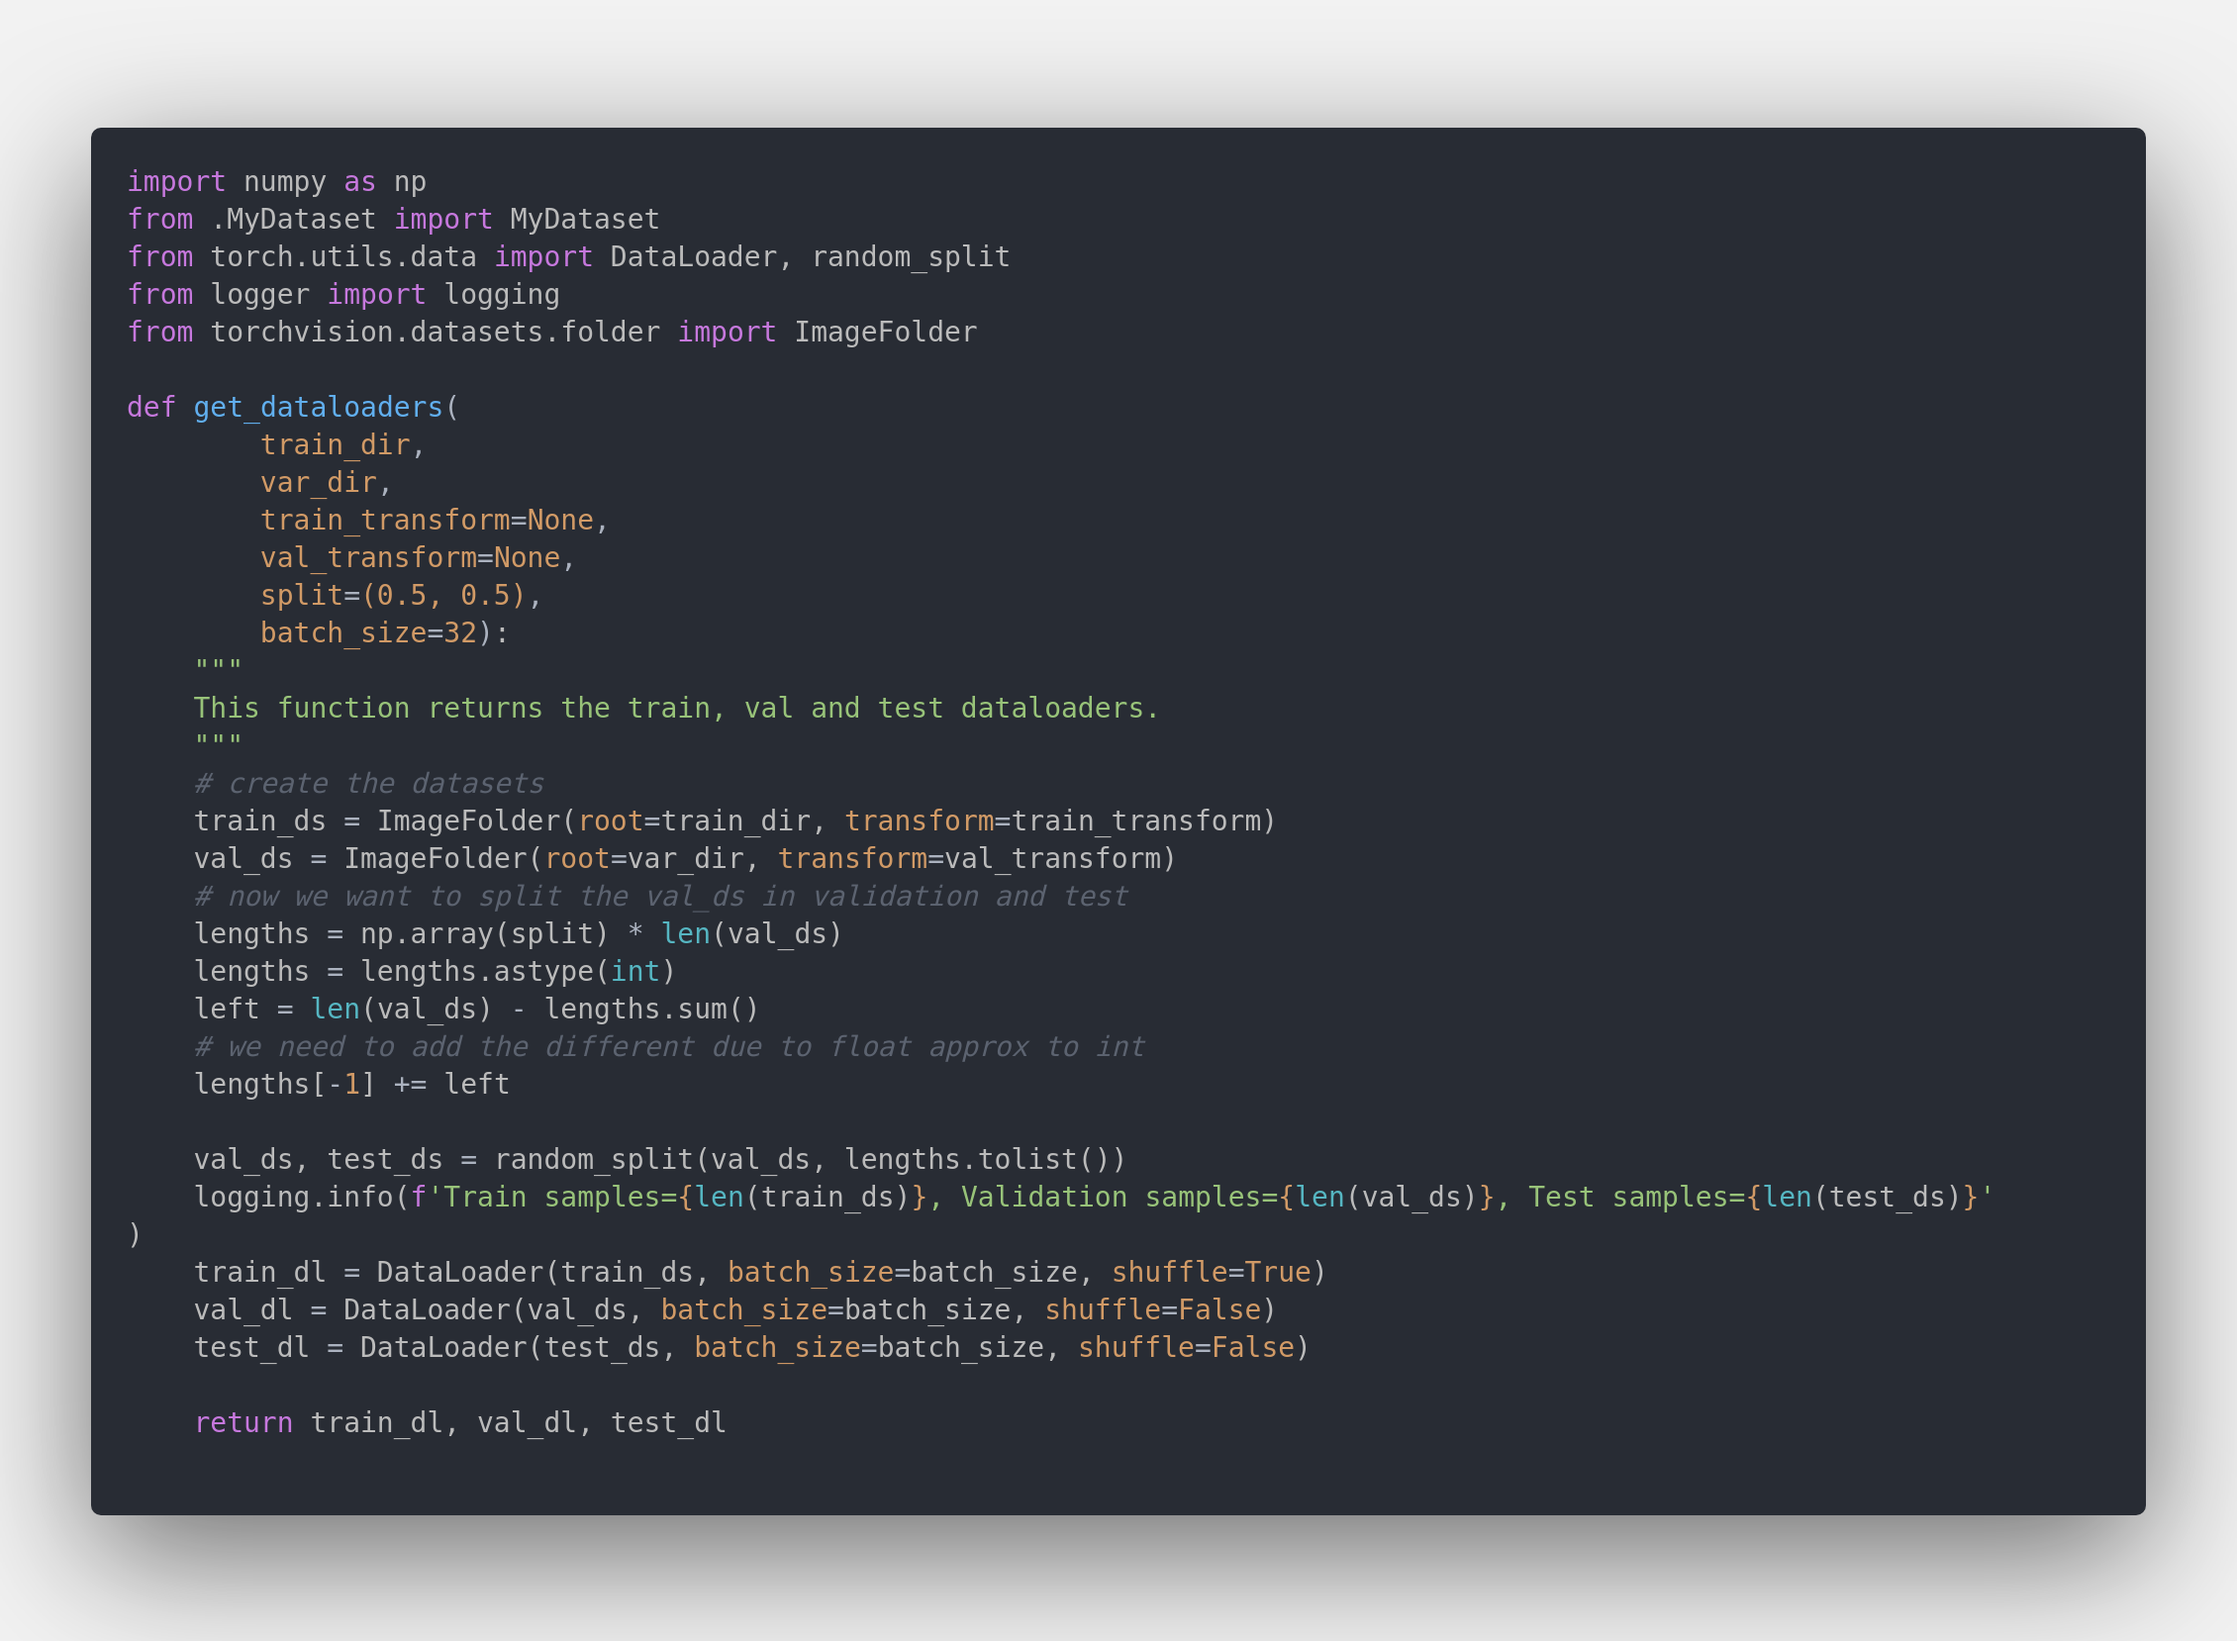
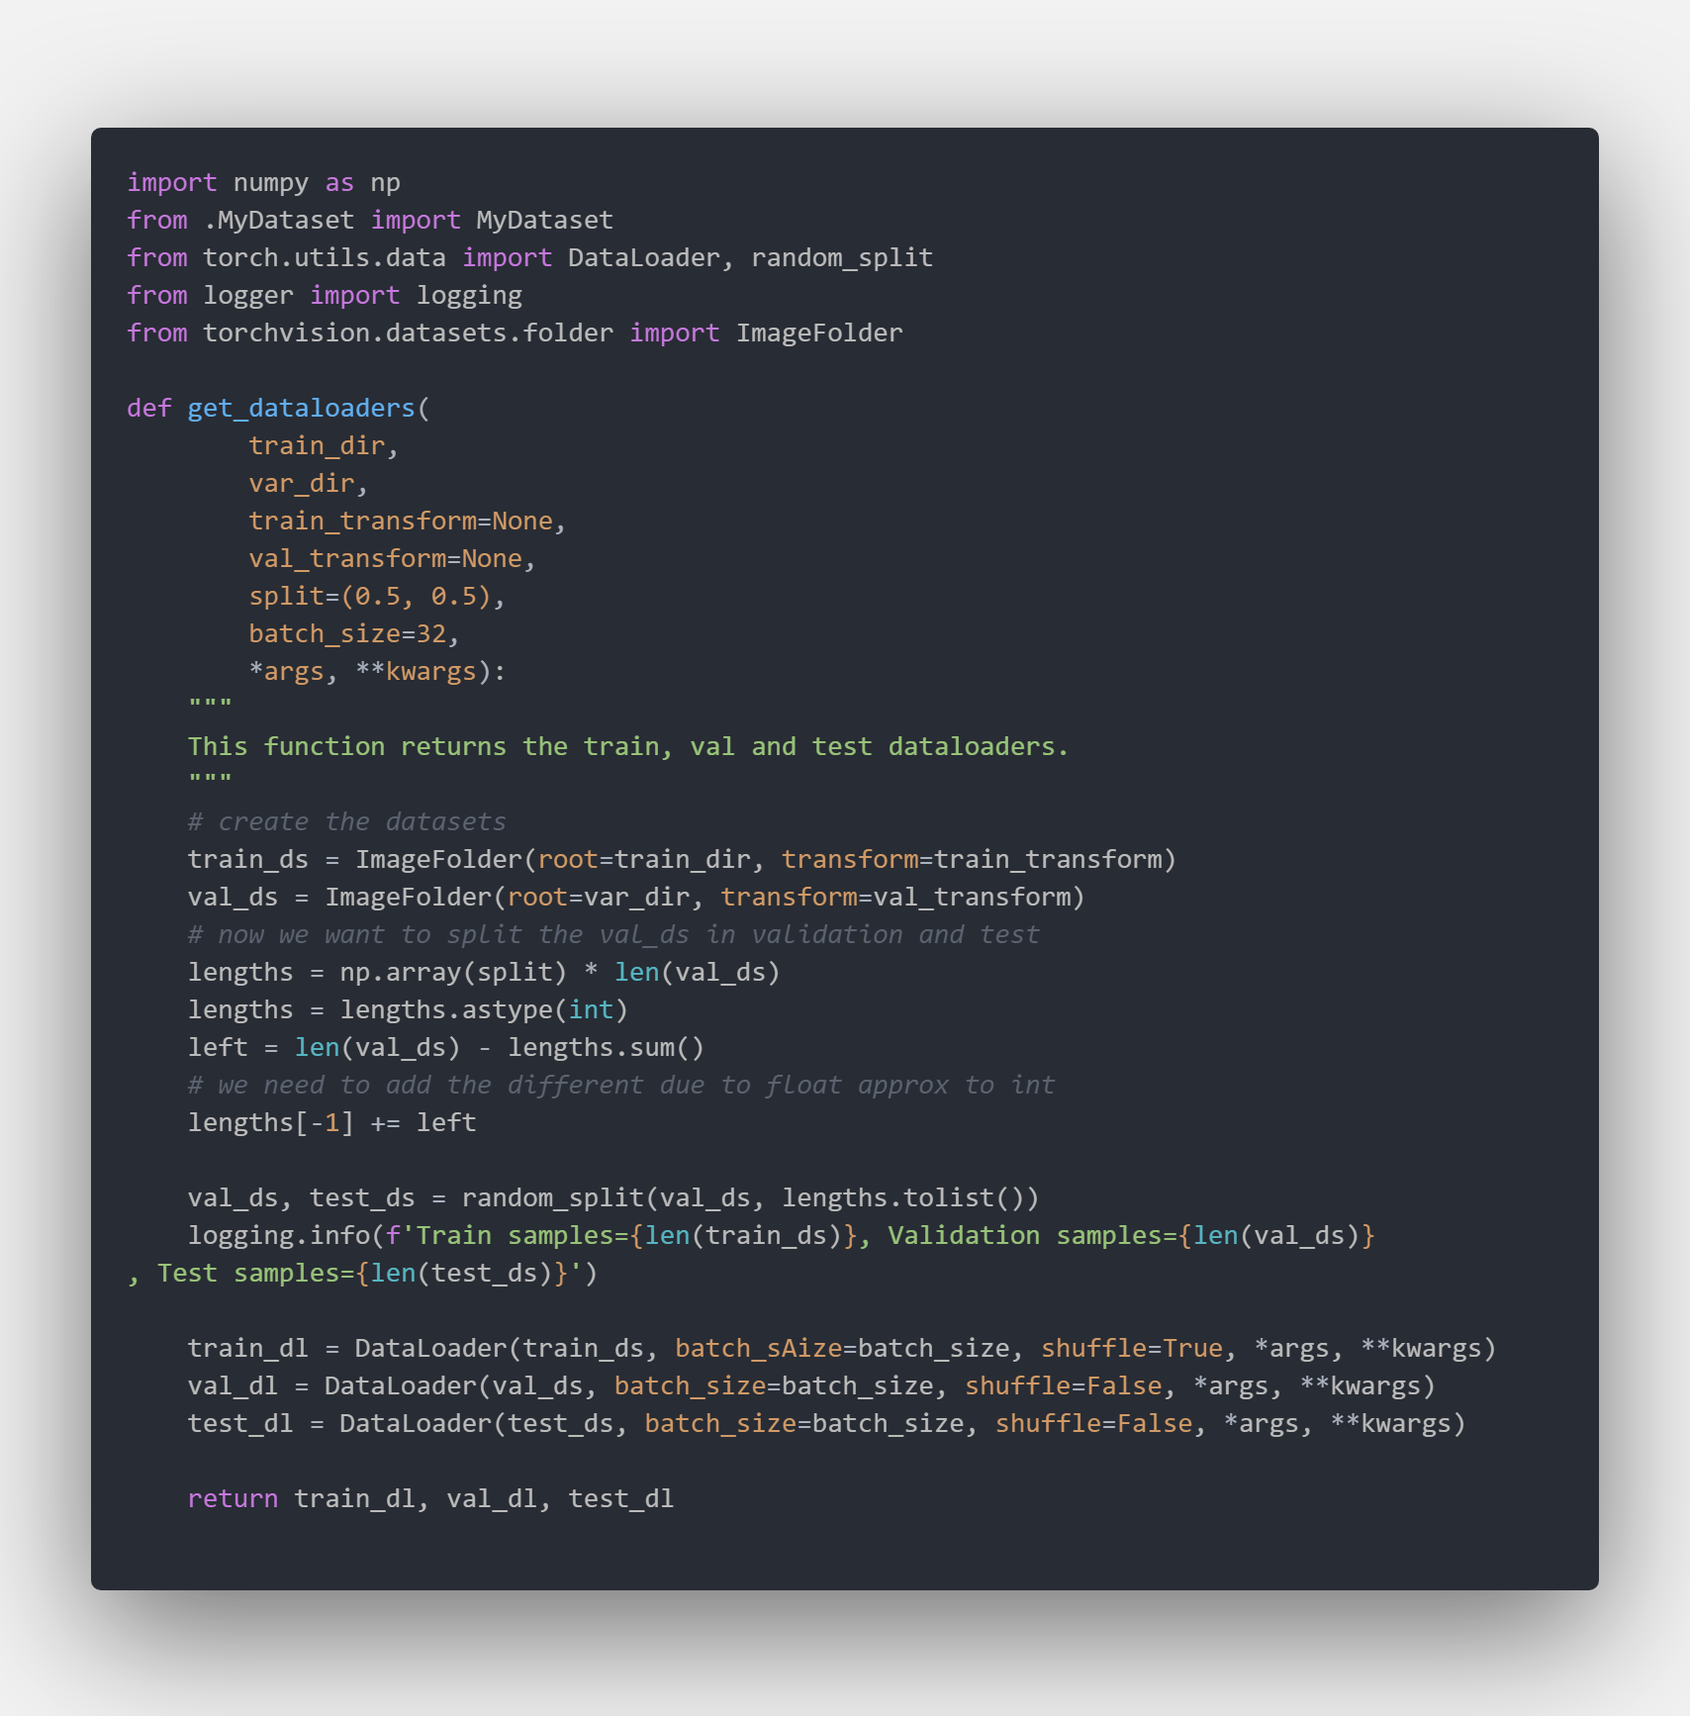
updated doc

diff --git a/main.py b/main.py
@@ -1,6 +1,6 @@
 import time
-import torch.optim as optim
 from comet_ml import Experiment
+import torch.optim as optim
 from torchsummary import summary
 from Project import Project
 from data import get_dataloaders
@@ -12,51 +12,57 @@ from poutyne.framework.callbacks import ReduceLROnPlateau, ModelCheckpoint, Earl
 from callbacks import CometCallback
 from logger import logging
 
-project = Project()
-# our hyperparameters
-params = {
-    'lr': 0.001,
-    'batch_size': 32,
-    'model': 'resnet18-finetune'
-}
-logging.info(f'Using device={device} 🚀')
-# everything starts with the data
-train_dl, val_dl, test_dl = get_dataloaders(
-    project.data_dir / "train",
-    project.data_dir / "val",
-    val_transform=val_transform,
-    train_transform=train_transform,
-    batch_size=params['batch_size'],
-)
-# is always good practice to visualise some of the train and val images to be sure data-aug
-# is applied properly
-show_dl(train_dl)
-show_dl(test_dl)
-# define our comet experiment
-experiment = Experiment(api_key="YOU_KEY",
-                        project_name="dl-pytorch-template", workspace="francescosaveriozuppichini")
-experiment.log_parameters(params)
-# create our special resnet18
-cnn = resnet18(2).to(device)
-# print the model summary to show useful information
-logging.info(summary(cnn, (3, 224, 244)))
-# define custom optimizer and instantiace the trainer `Model`
-optimizer = optim.Adam(cnn.parameters(), lr=params['lr'])
-model = Model(cnn, optimizer, "cross_entropy", batch_metrics=["accuracy"]).to(device)
-# usually you want to reduce the lr on plateau and store the best model
-callbacks = [
-    ReduceLROnPlateau(monitor="val_acc", patience=5, verbose=True),
-    ModelCheckpoint(str(project.checkpoint_dir / f"{time.time()}-model.pt"), save_best_only="True", verbose=True),
-    EarlyStopping(monitor="val_acc", patience=10, mode='max'),
-    CometCallback(experiment)
-]
-model.fit_generator(
-    train_dl,
-    val_dl,
-    epochs=50,
-    callbacks=callbacks,
-)
-# get the results on the test set
-loss, test_acc = model.evaluate_generator(test_dl)
-logging.info(f'test_acc=({test_acc})')
-experiment.log_metric('test_acc', test_acc)
+if __name__ == '__main__':
+    project = Project()
+    # our hyperparameters
+    params = {
+        'lr': 0.001,
+        'batch_size': 32,
+        'epochs': 10,
+        'model': 'resnet18-finetune'
+    }
+    logging.info(f'Using device={device} 🚀')
+    # everything starts with the data
+    train_dl, val_dl, test_dl = get_dataloaders(
+        project.data_dir / "train",
+        project.data_dir / "val",
+        val_transform=val_transform,
+        train_transform=train_transform,
+        batch_size=params['batch_size'],
+        pin_memory=True,
+        num_workers=4,
+    )
+    # is always good practice to visualise some of the train and val images to be sure data-aug
+    # is applied properly
+    show_dl(train_dl)
+    show_dl(test_dl)
+    # define our comet experiment
+    experiment = Experiment(api_key="YOU_KEY",
+                            project_name="dl-pytorch-template", workspace="francescosaveriozuppichini")
+    experiment.log_parameters(params)
+    # create our special resnet18
+    cnn = resnet18(2).to(device)
+    # print the model summary to show useful information
+    logging.info(summary(cnn, (3, 224, 244)))
+    # define custom optimizer and instantiace the trainer `Model`
+    optimizer = optim.Adam(cnn.parameters(), lr=params['lr'])
+    model = Model(cnn, optimizer, "cross_entropy",
+                  batch_metrics=["accuracy"]).to(device)
+    # usually you want to reduce the lr on plateau and store the best model
+    callbacks = [
+        ReduceLROnPlateau(monitor="val_acc", patience=5, verbose=True),
+        ModelCheckpoint(str(project.checkpoint_dir /
+                            f"{time.time()}-model.pt"), save_best_only="True", verbose=True),
+        EarlyStopping(monitor="val_acc", patience=10, mode='max'),
+        CometCallback(experiment)
+    ]
+    model.fit_generator(
+        train_dl,
+        val_dl,
+        epochs=params['epochs'],
+        callbacks=callbacks,
+    )
+    # get the results on the test set
+    loss, test_acc = model.evaluate_generator(test_dl)
+    logging.info(f'test_acc=({test_acc})')
+    experiment.log_metric('test_acc', test_acc)

diff --git a/data/__init__.py b/data/__init__.py
@@ -10,7 +10,8 @@ def get_dataloaders(
         train_transform=None,
         val_transform=None,
         split=(0.5, 0.5),
-        batch_size=32):
+        batch_size=32,
+        *args, **kwargs):
     """
     This function returns the train, val and test dataloaders.
     """
@@ -27,8 +28,8 @@ def get_dataloaders(
     val_ds, test_ds = random_split(val_ds, lengths.tolist())
     logging.info(f'Train samples={len(train_ds)}, Validation samples={len(val_ds)}, Test samples={len(test_ds)}')
 
-    train_dl = DataLoader(train_ds, batch_size=batch_size, shuffle=True, pin_memory=True, num_workers=4)
-    val_dl = DataLoader(val_ds, batch_size=batch_size, shuffle=False, pin_memory=True, num_workers=4)
-    test_dl = DataLoader(test_ds, batch_size=batch_size, shuffle=False, pin_memory=True, num_workers=4)
+    train_dl = DataLoader(train_ds, batch_sAize=batch_size, shuffle=True, *args, **kwargs)
+    val_dl = DataLoader(val_ds, batch_size=batch_size, shuffle=False, *args, **kwargs)
+    test_dl = DataLoader(test_ds, batch_size=batch_size, shuffle=False, *args, **kwargs)
 
     return train_dl, val_dl, test_dl

diff --git a/metrics/__init__.py b/metrics/__init__.py
@@ -1,0 +1,22 @@
+from poutyne.framework.metrics import EpochMetric
+
+# define a custom metric as a function
+def my_metric(y_true, y_pred):
+    pass
+
+# or as a class when we need to accumulate
+class MyEpochMetric(EpochMetric):
+    def forward(self, y_pred, y_true):
+        """
+        To define the behavior of the metric when called.
+        Args:
+            y_pred: The prediction of the model.
+            y_true: Target to evaluate the model.
+        """
+        pass
+
+    def get_metric(self):
+        """
+        Compute and return the metric.S
+        """
+        pass

diff --git a/losses/__init__.py b/losses/__init__.py
@@ -1,6 +1,6 @@
 import torch
-# define custom losses
 
+# define custom losses
 def my_loss(output, target):
     loss = torch.mean((output - target) ** 2)
     return loss

diff --git a/README.md b/README.md
@@ -57,7 +57,7 @@ Every deep learning project has at least three mains steps:
 ## Project
 One good idea is to store all the paths at an interesting location, e.g. the dataset folder, in a shared class that be accessed by anyone in the folder. You should never hardcode any paths and always define them once and import them. So, if you later change your structure you will only have to modify one file.
 If we have a look at `Project.py` we can see how we defined the `data_dir` and the `checkpoint_dir` once for all. We are using the 'new' [Path](https://docs.python.org/3/library/pathlib.html) APIs that support different OS out of the box, and also make it easier to join and concatenate paths.
-![alt](https://raw.githubusercontent.com/FrancescoSaverioZuppichini/PyTorch-Deep-Learning-Skeletron/develop/images/Project.png)
+![alt](https://raw.githubusercontent.com/FrancescoSaverioZuppichini/PyTorch-Deep-Learning-Skeletron/master/images/Project.png)
 For example, if we want to know the data location we can :
 ```python3
 from Project import Project
@@ -70,13 +70,16 @@ In our example, we directly used `ImageDataset` from `torchvision` but we includ
 ### Transformation
 You usually have to do some preprocessing on the data, e.g. resize the images and apply data augmentation. All your transformation should go inside `.data.trasformation`. In our template, we included a wrapper for
 [imgaug](https://imgaug.readthedocs.io/en/latest/)
-![alt](https://raw.githubusercontent.com/FrancescoSaverioZuppichini/PyTorch-Deep-Learning-Skeletron/develop/images/transformation.png)
+![alt](https://raw.githubusercontent.com/FrancescoSaverioZuppichini/PyTorch-Deep-Learning-Skeletron/master/images/transformation.png)
 ### Dataloaders
 As you know, you have to create a `Dataloader` to feed your data into the model. In the `data.__init__.py` file we expose a very simple function `get_dataloaders` to automatically configure the *train, val and test* data loaders using few parameters
-![alt](https://raw.githubusercontent.com/FrancescoSaverioZuppichini/PyTorch-Deep-Learning-Skeletron/develop/images/data.png)
+![alt](https://raw.githubusercontent.com/FrancescoSaverioZuppichini/PyTorch-Deep-Learning-Skeletron/master/images/data.png)
 ## Losses
 Sometimes you may need to define your custom losses, you can include them in the `./losses` package. For example
-![alt](https://raw.githubusercontent.com/FrancescoSaverioZuppichini/PyTorch-Deep-Learning-Skeletron/develop/images/losses.png)
+![alt](https://raw.githubusercontent.com/FrancescoSaverioZuppichini/PyTorch-Deep-Learning-Skeletron/master/images/losses.png)
+## Metrics
+Sometimes you may need to define your custom metrics. For example
+![alt](https://raw.githubusercontent.com/FrancescoSaverioZuppichini/PyTorch-Deep-Learning-Skeletron/master/images/metrics.png)
 ## Logging 
 We included python [logging](https://docs.python.org/3/library/logging.html) module. You can import and use it by:
 
@@ -88,27 +91,27 @@ logger.info('print() is for noobs')
 ## Models
 All your models go inside `models`, in our case, we have a very basic cnn and we override the `resnet18` function to provide a frozen model to finetune.
 
-![alt](https://github.com/FrancescoSaverioZuppichini/PyTorch-Deep-Learning-Skeletron/blob/develop/images/resnet.png?raw=true)
+![alt](https://github.com/FrancescoSaverioZuppichini/PyTorch-Deep-Learning-Skeletron/blob/master/images/resnet.png?raw=true)
 ## Train/Evaluation
 In our case we kept things simple, all the training and evaluation logic is inside `.main.py` where we used [poutyne](https://pypi.org/project/Poutyne/) as the main library. We already defined a useful list of callbacks:
 - learning rate scheduler
 - auto-save of the best model
 - early stopping
 Usually, this is all you need!
-![alt](https://github.com/FrancescoSaverioZuppichini/PyTorch-Deep-Learning-Skeletron/blob/develop/images/main.png?raw=true)
+![alt](https://github.com/FrancescoSaverioZuppichini/PyTorch-Deep-Learning-Skeletron/blob/master/images/main.png?raw=true)
 ### Callbacks 
 You may need to create custom callbacks, with [poutyne](https://pypi.org/project/Poutyne/) is very easy since it support Keras-like API. You custom callbacks should go inside `./callbacks`. For example, we have created one to update Comet every epoch.
-![alt](https://github.com/FrancescoSaverioZuppichini/PyTorch-Deep-Learning-Skeletron/blob/develop/images/CometCallback.png?raw=true)
+![alt](https://github.com/FrancescoSaverioZuppichini/PyTorch-Deep-Learning-Skeletron/blob/master/images/CometCallback.png?raw=true)
 
 ### Track your experiment
 We are using [comet](https://www.comet.ml/) to automatically track our models' results. This is what comet's board looks like after a few models run.
-![alt](https://github.com/FrancescoSaverioZuppichini/PyTorch-Deep-Learning-Skeletron/blob/develop/images/comet.jpg?raw=true)
+![alt](https://github.com/FrancescoSaverioZuppichini/PyTorch-Deep-Learning-Skeletron/blob/master/images/comet.jpg?raw=true)
 Running `main.py` produces the following output:
-![alt](https://github.com/FrancescoSaverioZuppichini/PyTorch-Deep-Learning-Skeletron/blob/develop/images/output.jpg?raw=true)
+![alt](https://github.com/FrancescoSaverioZuppichini/PyTorch-Deep-Learning-Skeletron/blob/master/images/output.jpg?raw=true)
 ## Utils
 We also created different utilities function to plot booth dataset and dataloader. They are in `utils.py`. For example, calling `show_dl` on our train and val dataset produces the following outputs.
-![alt](https://github.com/FrancescoSaverioZuppichini/PyTorch-Deep-Learning-Skeletron/blob/develop/images/Figure_1.png?raw=true)
-![alt](https://github.com/FrancescoSaverioZuppichini/PyTorch-Deep-Learning-Skeletron/blob/develop/images/Figure_2.png?raw=true)
+![alt](https://github.com/FrancescoSaverioZuppichini/PyTorch-Deep-Learning-Skeletron/blob/master/images/Figure_1.png?raw=true)
+![alt](https://github.com/FrancescoSaverioZuppichini/PyTorch-Deep-Learning-Skeletron/blob/master/images/Figure_2.png?raw=true)
 As you can see data-augmentation is correctly applied on the train set
 ## Conclusions
 I hope you found some useful information and hopefully it this template will help you on your next amazing project :)
